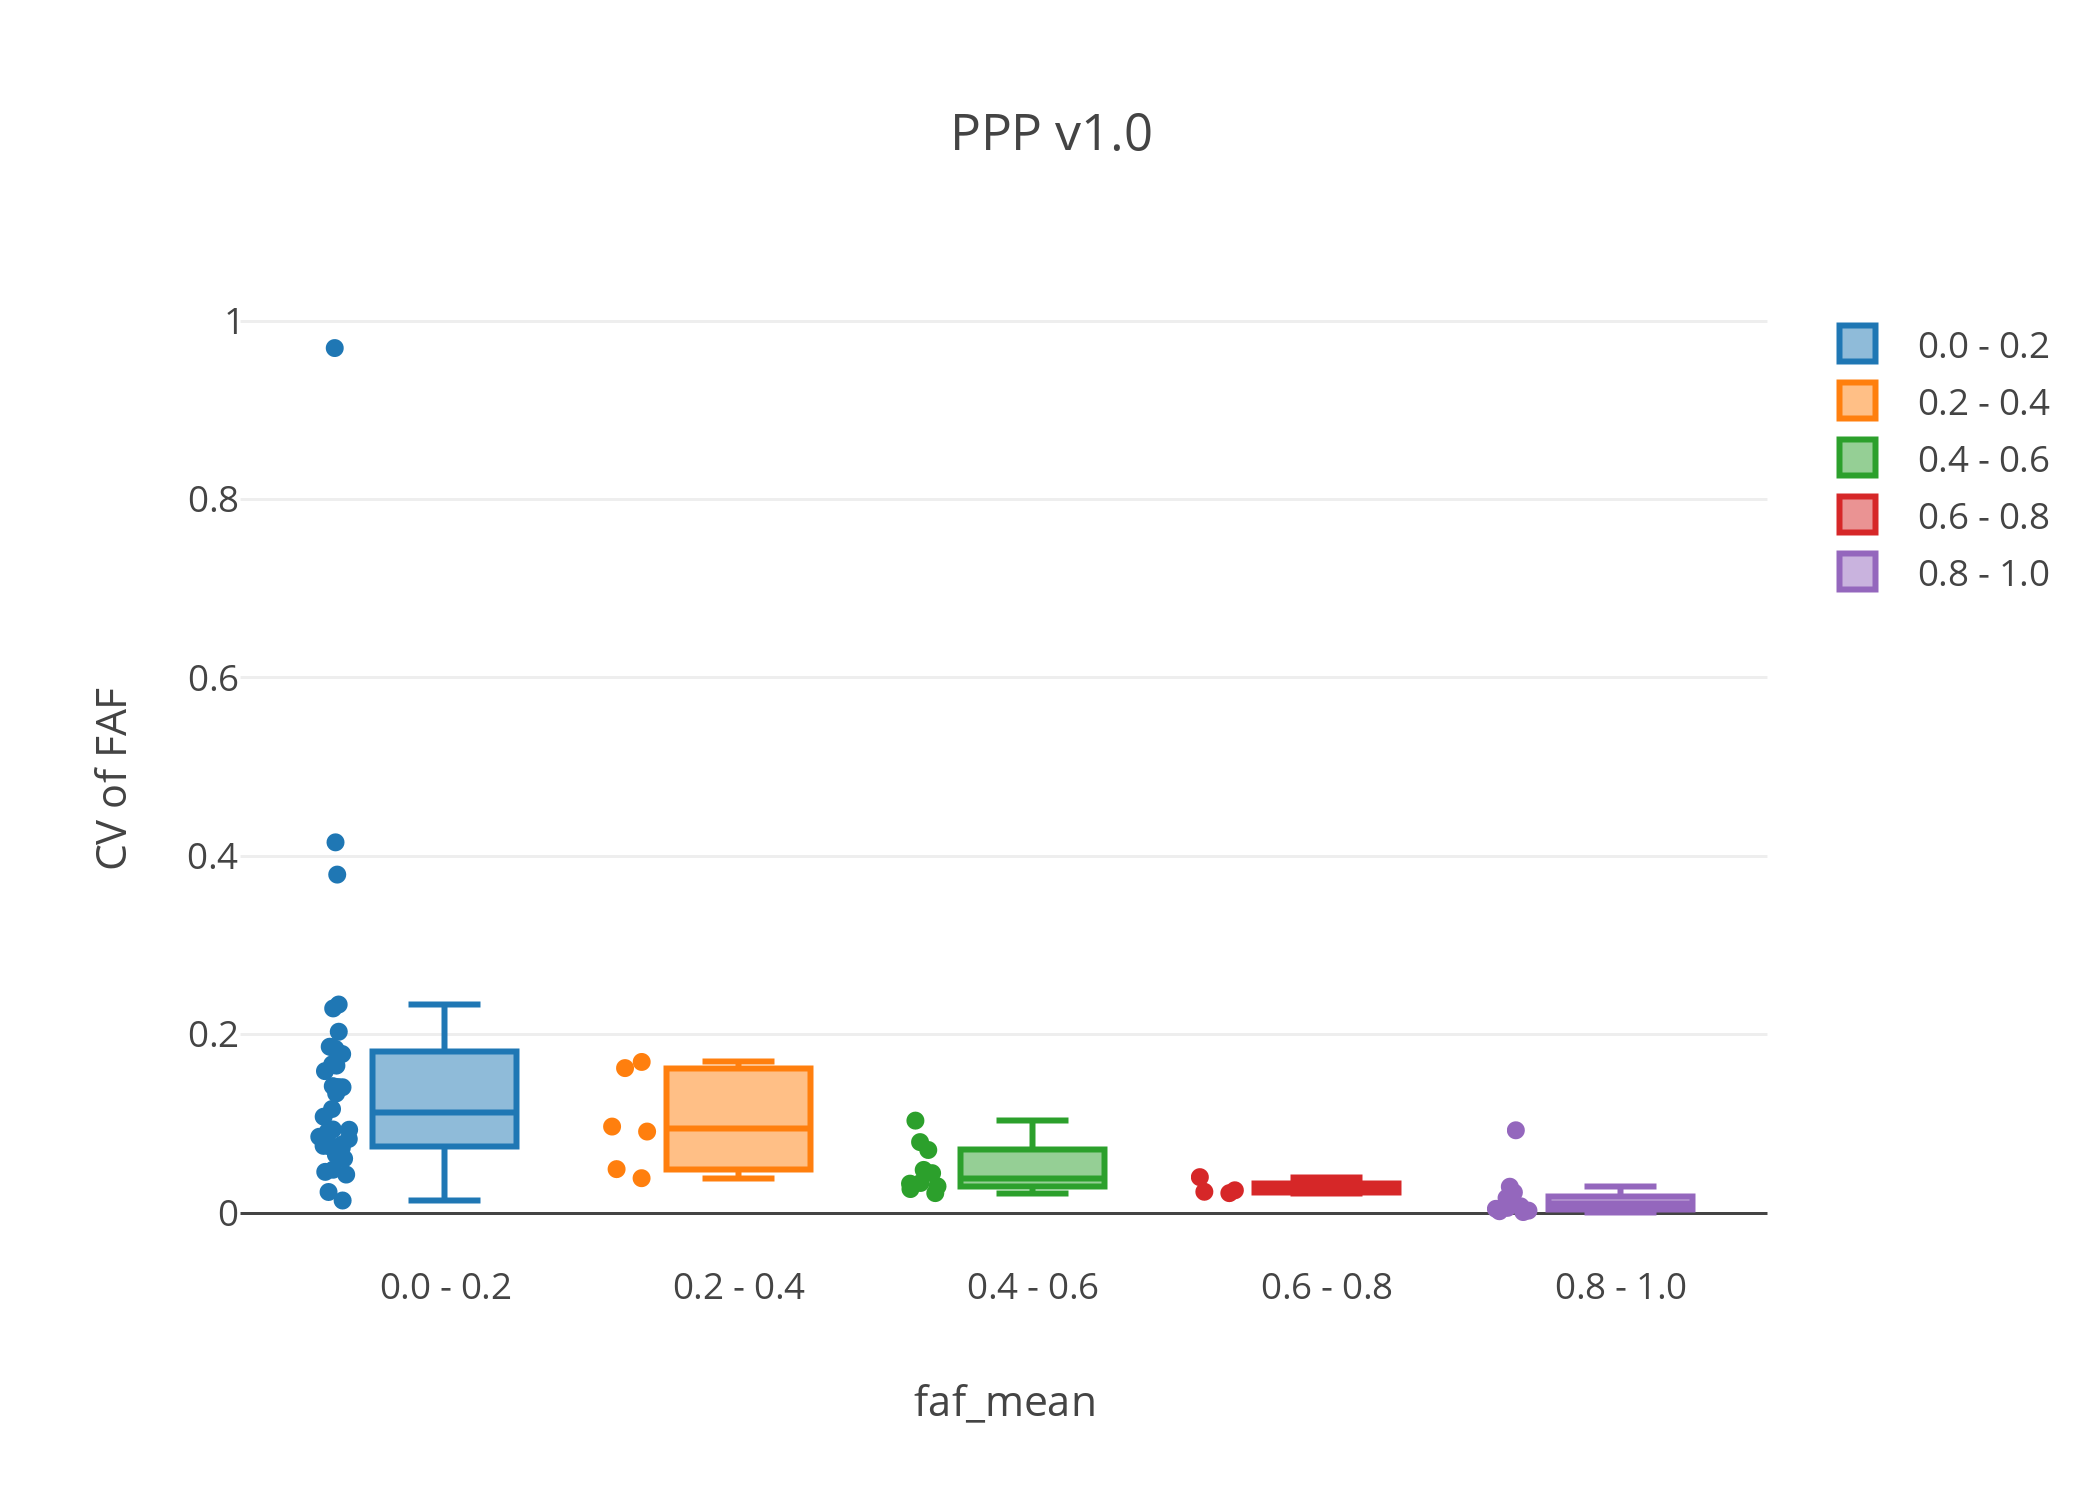
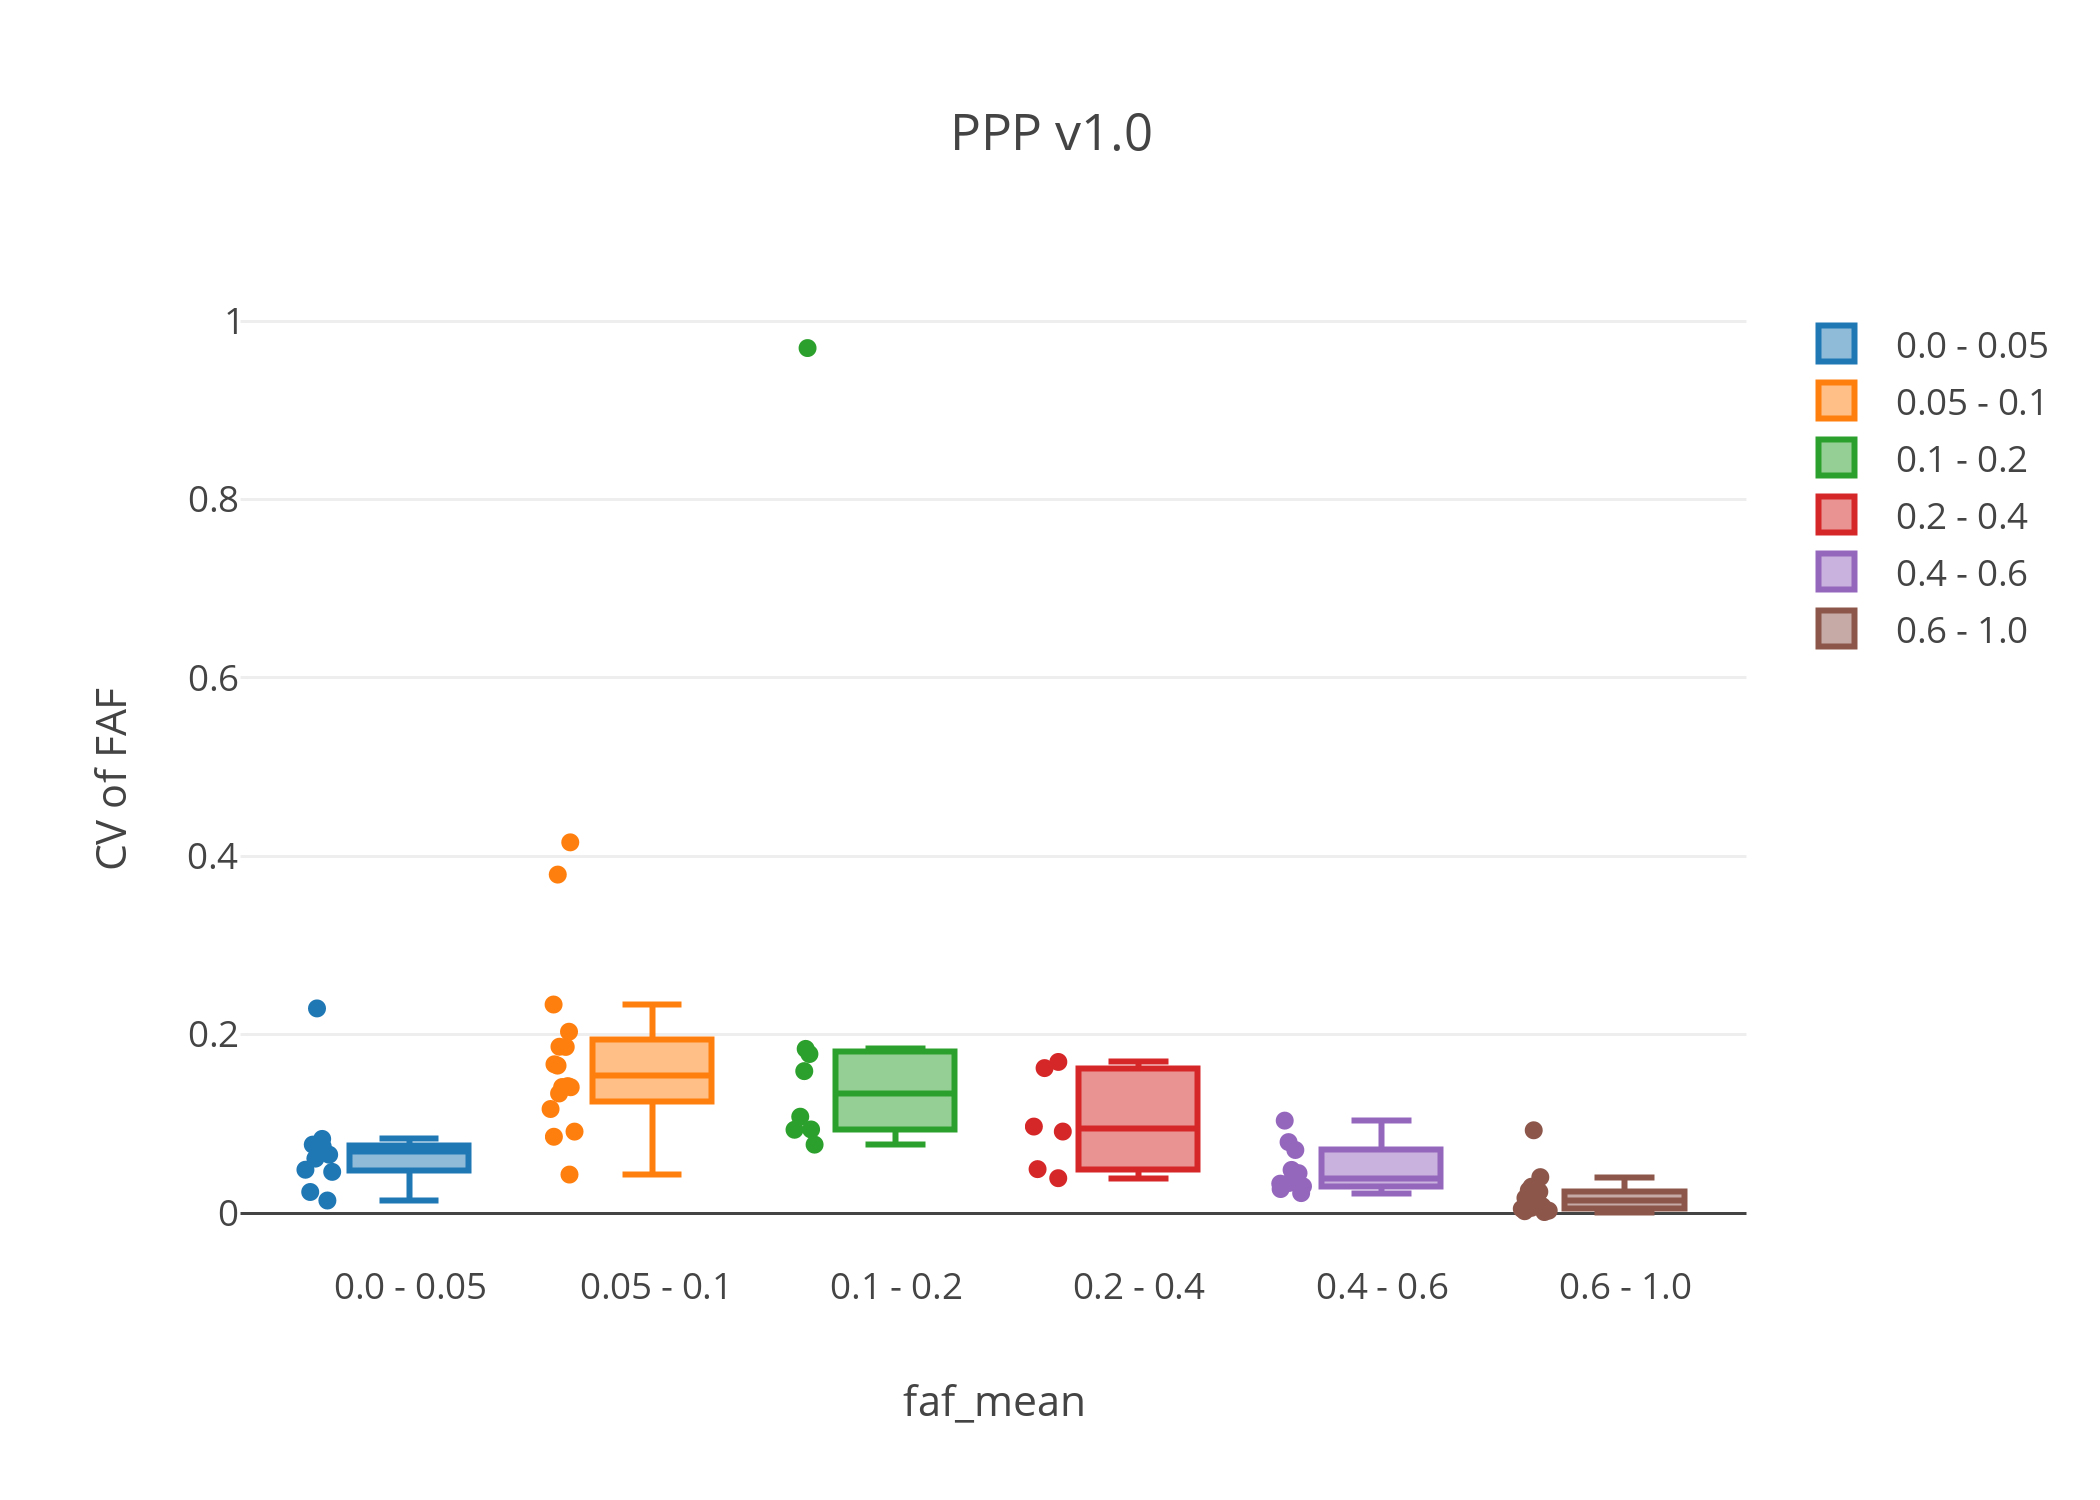
8/15/17

diff --git a/functions.py b/functions.py
@@ -12,6 +12,24 @@ import plotly.graph_objs as go
 import numpy as np
 from scipy import stats
 
+def plot_cumulative_cv(df, col, side):
+    df = df.dropna(subset =['faf_cv', col]).\
+        sort_values(by = col, ascending = False).\
+        reset_index(drop = True)
+    df['cum_avg'] = np.nan
+    df = df[[col, 'faf_cv', 'cum_avg']]
+    nrows = len(df)
+    if side == 'right':
+        for i in range(nrows):
+            df.loc[i, 'cum_avg'] = df.faf_cv[i:].mean()
+    else:
+        for i in range(nrows):
+            df.loc[i, 'cum_avg'] = df.faf_cv[:i].mean()
+    trace = go.Scatter(x = df[col],
+                       y = df.cum_avg,
+                       mode = 'line',
+                       name = '{} {}'.format(panel_name, panel_version))
+    return trace
 
 def get_overlap(a, b):
     os.chdir('/Users/Anders/Dropbox/Projects/CPD_QC/sql2/Stats')
@@ -95,10 +113,7 @@ def make_box(x, df, cutoffs, panel_name, panel_version):
     # load traces
     data = []
     for i in range(len(cutoffs)-1):
-        if cutoffs[1]<1:
-            name = "{:.2} - {:.2}".format(lowers[i], uppers[i])
-        else:
-            name = "{} - {}".format(lowers[i], uppers[i])
+        name = "{} - {}".format(lowers[i], uppers[i])
         trace = go.Box(
                     y = cvs[i],
                     name = name,
@@ -111,8 +126,7 @@ def make_box(x, df, cutoffs, panel_name, panel_version):
     layout = go.Layout(title = '{} v{}'.format(panel_name, panel_version), 
                        xaxis = xlab, yaxis = ylab)
     fig = go.Figure(data=data,layout=layout)
-#    plot_URL = py.plot(fig, filename = p +  ' ' + x, fileopt= 'overwrite',
-#                       sharing = 'secret', auto_open = False)
+
     py.image.save_as(fig, filename=filename, scale = 3)
     return
 

diff --git a/15_split_on_vtype_categ.py b/15_split_on_vtype_categ.py
@@ -1,7 +1,7 @@
 #!/usr/bin/env python3
 # -*- coding: utf-8 -*-
 """
-Created on Mon Aug 14 00:25:07 2017
+Created on Mon Aug 14 20:12:55 2017
 
 @author: Anders
 """
@@ -14,28 +14,32 @@ import plotly.graph_objs as go
 from functions import make_box
 import numpy as np
 
-print('making box plots')
+
+print('making overall bar graph')
 
 plotly.tools.set_credentials_file(username='andmeyer', 
                                   api_key='Vx28T2v1QEhiEHqujoc6')
 
-
-faf_cutoffs = [0.00, 0.05, 0.10, 0.20, 0.40, 0.60, 1.00]
-fdp_cutoffs = [0, 50, 100, 200, 500, 1000, 2000, 5000, 10000, 50000, 
-               100000, 1000000]
-
-
 os.chdir('/Users/Anders/Dropbox/Projects/CPD_QC/sql2/Stats')
+
+traces = []
 for file in os.listdir():
     if file.endswith(".csv"):
         os.chdir('/Users/Anders/Dropbox/Projects/CPD_QC/sql2/Stats')
         df = pd.read_csv(file)
         panel_name = df.panel_name[0]
         panel_version = df.panel_version[0]
-        print(panel_name, panel_version)
-        make_box('faf_mean', df, faf_cutoffs, panel_name, panel_version)
-        make_box('fdp_mean', df, fdp_cutoffs, panel_name, panel_version)
+        df.fdp_cv = df.fdp_std/df.fdp_mean
+        trace = go.Bar(x = ['Mean CV of FAF', 'Mean FAF', 'Mean CV of FDP'],
+               y = [df.faf_cv.mean(), df.faf_mean.mean(), df.fdp_cv.mean()],
+               name = '{} {}'.format(panel_name, panel_version),
+               yaxis = 'y1')
+        traces.append(trace)
 
-    
+os.chdir('/Users/Anders/Dropbox/Projects/CPD_QC/sql2/Plots')
+layout = go.Layout(barmode='group')
+fig = go.Figure(data=traces, layout=layout)
+py.image.save_as(fig, filename='overall.png', scale = 3)
 
 
+        

diff --git a/17_cumulative_mean_cv.py b/17_cumulative_mean_cv.py
@@ -1,0 +1,52 @@
+#!/usr/bin/env python3
+# -*- coding: utf-8 -*-
+"""
+Created on Mon Aug 14 21:43:11 2017
+
+@author: Anders
+"""
+
+import os
+import pandas as pd
+import plotly
+import plotly.plotly as py
+import plotly.graph_objs as go
+import numpy as np
+
+
+print('plotting cumulative cv')
+
+plotly.tools.set_credentials_file(username='andmeyer', 
+                                  api_key='Vx28T2v1QEhiEHqujoc6')
+
+os.chdir('/Users/Anders/Dropbox/Projects/CPD_QC/sql2/Stats')
+
+# do this as dicts
+
+trace_dict = {}
+sides = ['right', 'left']
+cols = ['fdp_mean', 'faf_mean']
+for s in sides:
+    for c in cols:
+        trace_dict[(c,s)] = []
+
+
+for file in os.listdir():
+    if file.endswith(".csv"):
+        os.chdir('/Users/Anders/Dropbox/Projects/CPD_QC/sql2/Stats')
+        df = pd.read_csv(file)
+        panel_name = df.panel_name[0]
+        panel_version = df.panel_version[0]
+
+        
+        trace_dict = plot_cumulative_cv(df, trace_dict)
+        
+
+os.chdir('/Users/Anders/Dropbox/Projects/CPD_QC/sql2/Plots')
+for k, v in trace_dict.items():
+xlab = dict(title = 'Panels')
+ylab = dict(title = 'Number of Runs')
+layout = go.Layout(title = 'Number of Runs by Panel', 
+                   xaxis = xlab, yaxis = ylab)
+fig = go.Figure(data=traces, layout=layout)
+py.image.save_as(fig, filename='num_runs.png', scale = 3)

diff --git a/18_monte_carlo.py b/18_monte_carlo.py
@@ -1,0 +1,26 @@
+#!/usr/bin/env python3
+# -*- coding: utf-8 -*-
+"""
+Created on Mon Aug 14 23:11:44 2017
+
+@author: Anders
+"""
+import numpy as np
+import pandas as pd
+
+os.chdir('/Users/Anders/Dropbox/Projects/CPD_QC/sql2/Stats')
+df = pd.read_csv('Heme_v1.0_stats.csv').dropna(subset = ['faf_mean', 'faf_std', 
+                'faf_count'])
+df = df.loc[df.faf_std>0, :].reset_index(drop=True)
+nsamples = 0
+nrows = len(df)
+samples = pd.Series()
+while nsamples < 10000:
+    r = np.random.randint(0, nrows)
+    mean = df.loc[r, 'faf_mean']
+    s = pd.Series(np.random.normal(mean, df.loc[r, 'faf_std'], 
+                                   df.loc[r, 'faf_count']))
+    
+    samples = samples.append((s>1.5*mean) | (s<mean/1.5) )
+    nsamples += len(s)
+    
